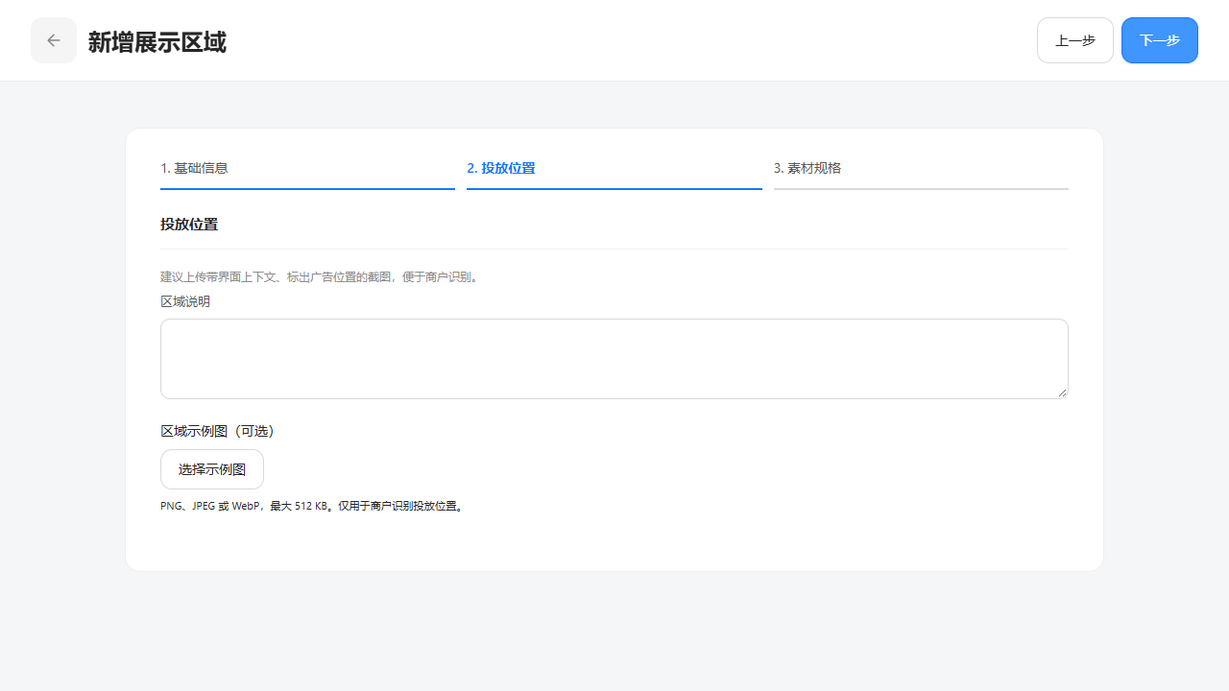
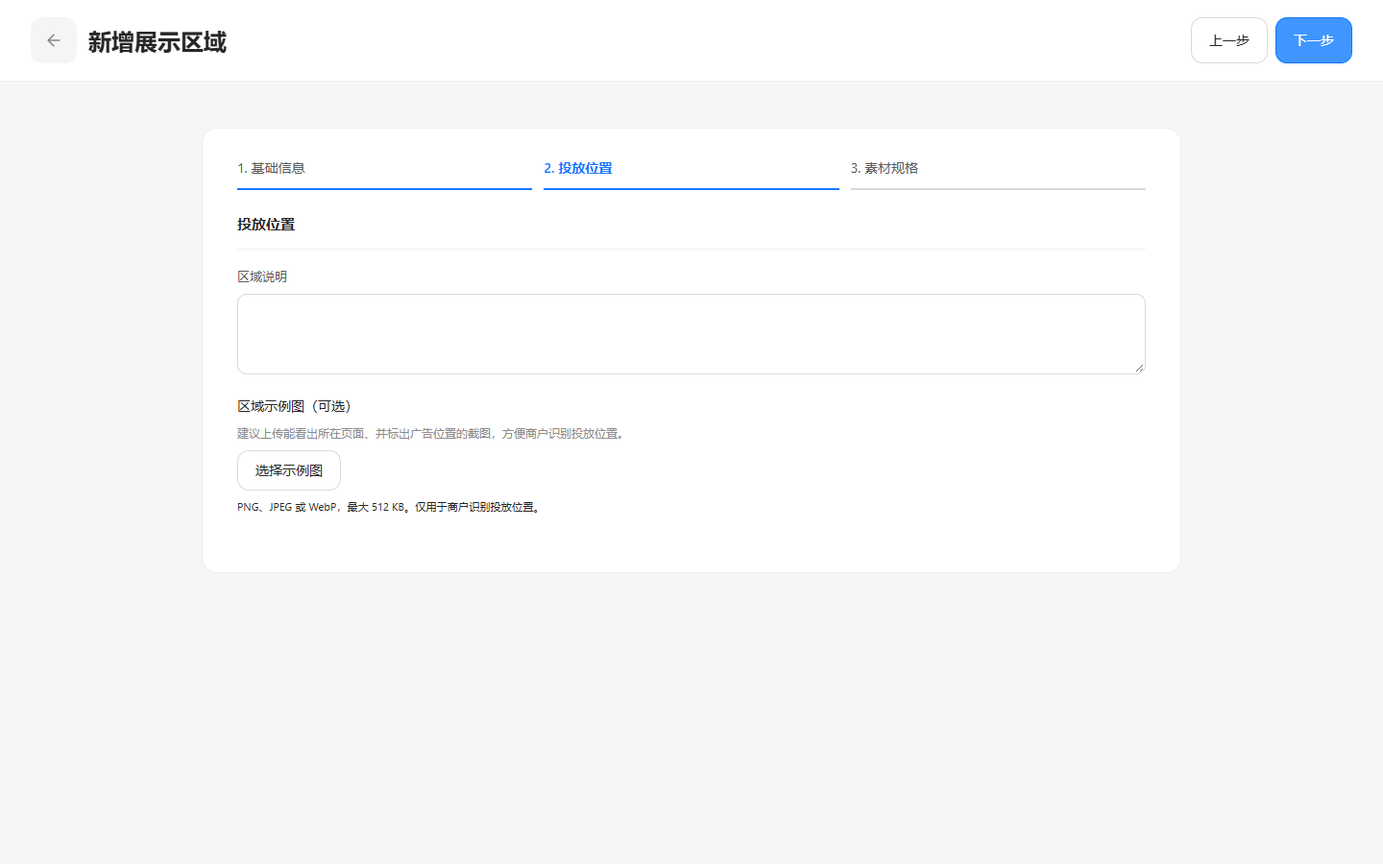
fix: streamline display region list and creation guidance

diff --git a/admin-web/src/marketing-display/ui.ts b/admin-web/src/marketing-display/ui.ts
@@ -49,18 +49,21 @@ class DisplayController {
   private contentStatus(id:string):string {const c=this.content(id),active=this.visiblePlacements().filter(p=>p.contentId===id&&this.status(p)==='已上架');return active.length?active.some(p=>p.snapshot?.version!==c?.version)?'有未发布修改':'已投放':'未投放'}
   private rows():Array<DisplayRegion|MerchantDisplayState['contents'][number]|DisplayPlacement> {const list=this.mode==='regions'?this.platform.regions:this.mode==='contents'?this.state.contents:this.visiblePlacements();return list.filter(item=>{const r='code' in item?item:this.region(item.regionId);const name='name' in item?item.name:this.content(item.contentId)?.name??item.snapshot?.name??'';const state='enabled' in item?item.enabled?'启用':'停用':'storeIds' in item?this.status(item):this.contentStatus(item.id);return (!this.query||(`${name} ${r?.productLine??''} ${r?.code??''}`).toLowerCase().includes(this.query.toLowerCase()))&&(!this.regionFilter||r?.id===this.regionFilter)&&(!this.statusFilter||state===this.statusFilter)})}
   private render():void {
-    if(!this.host.isConnected)return;const title=this.mode==='regions'?'展示区域管理':this.mode==='placements'?'投放管理':'内容方案',rows=this.rows(),pages=Math.max(1,Math.ceil(rows.length/this.pageSize));this.page=Math.min(this.page,pages);
+    if(!this.host.isConnected)return;const isRegions=this.mode==='regions',title=this.mode==='placements'?'投放管理':'内容方案',rows=this.rows(),pages=Math.max(1,Math.ceil(rows.length/this.pageSize));this.page=Math.min(this.page,pages);
     const selected=rows.slice((this.page-1)*this.pageSize,this.page*this.pageSize);
     const body=this.mode==='regions'?this.regionList(selected as DisplayRegion[]):this.mode==='contents'?this.contentList(selected as MerchantDisplayState['contents']):this.placementList(selected as DisplayPlacement[]);
     const noScope=this.mode!=='regions'&&!this.scope.scope;
-    this.hostMediaCleanup();this.host.innerHTML=`<div class="display-heading"><div><h2>${title}</h2><p>${this.mode==='regions'?'定义展示区域与素材规范，登记各终端支持能力':this.mode==='placements'?'按区域、终端、门店和生效时间管理投放':`为${e(this.scope.name)}配置屏保、首页、购物车与完成页展示内容`}</p></div>${!noScope?this.writeButton('＋ '+(this.mode==='regions'?'新增区域':this.mode==='placements'?'新建投放':'新建内容方案'),this.mode==='regions'?'new-region':this.mode==='placements'?'new-placement':'new-content',undefined,true):''}</div>${this.error?`<div class="display-alert error" role="alert">${e(this.error)}</div>`:''}${this.message?`<div class="display-alert success" role="status">${e(this.message)}</div>`:''}${noScope?'<div class="display-alert">请选择明确品牌后查看和配置展示内容，不在“全部品牌”中混合编辑。</div>':`<div class="display-panel"><div class="display-results-scroll"><div class="display-filters"><input class="display-search" id="display-search" aria-label="${this.mode==='regions'?'搜索产线、区域名称或编码':'搜索内容方案名称'}" placeholder="${this.mode==='regions'?'产线 / 区域名称 / 区域编码':'内容方案名称'}" value="${e(this.query)}">${this.mode!=='regions'?`<select id="display-region-filter" aria-label="按展示区域筛选"><option value="">全部展示区域</option>${this.platform.regions.map(r=>`<option value="${r.id}" ${this.regionFilter===r.id?'selected':''}>${e(r.name)}</option>`).join('')}</select>`:''}<select id="display-status-filter" aria-label="按状态筛选"><option value="">全部状态</option>${(this.mode==='regions'?['启用','停用']:this.mode==='contents'?['未投放','已投放','有未发布修改']:['待上架','已上架','已下架']).map(s=>`<option ${s===this.statusFilter?'selected':''}>${s}</option>`).join('')}</select>${btn('重置','reset',{link:true})}</div>${this.mode==='regions'?'<div class="display-alert">新增区域不自动代表终端已接入。终端完成开发后登记最低版本与素材能力，商家才可选择投放。</div>':''}${this.mode==='contents'&&this.hasLegacy()?`<div class="display-alert">检测到本浏览器的旧屏保数据。确认归属后可导入当前品牌为草稿，原数据保留。${this.writeButton('导入旧屏保','import',undefined,false,true)}</div>`:''}${this.mode==='placements'?'<div class="display-note">仅显示当前门店权限范围内可完整管理的投放。已发布与终端已展示分别记录。</div>':''}<div data-display-results>${body}</div></div><footer class="display-footer"><span>共 ${rows.length} 条</span><div>${btn('‹','previous',{disabled:this.page<=1,extra:'aria-label="上一页"'})}<span class="display-page-number">${this.page}</span>${btn('›','next',{disabled:this.page>=pages,extra:'aria-label="下一页"'})}<span>10 / 页</span></div></footer></div>`}`;this.hostMediaCleanup=hydrateDisplayMedia(this.host);
+    const filters=`<input class="display-search" id="display-search" aria-label="${this.mode==='regions'?'搜索产线、区域名称或编码':'搜索内容方案名称'}" placeholder="${this.mode==='regions'?'产线 / 区域名称 / 区域编码':'内容方案名称'}" value="${e(this.query)}">${this.mode!=='regions'?`<select id="display-region-filter" aria-label="按展示区域筛选"><option value="">全部展示区域</option>${this.platform.regions.map(r=>`<option value="${r.id}" ${this.regionFilter===r.id?'selected':''}>${e(r.name)}</option>`).join('')}</select>`:''}<select id="display-status-filter" aria-label="按状态筛选"><option value="">全部状态</option>${(this.mode==='regions'?['启用','停用']:this.mode==='contents'?['未投放','已投放','有未发布修改']:['待上架','已上架','已下架']).map(s=>`<option ${s===this.statusFilter?'selected':''}>${s}</option>`).join('')}</select>${btn('重置','reset',{link:true})}`;
+    const heading=isRegions?'':`<div class="display-heading"><div><h2>${title}</h2><p>${this.mode==='placements'?'按区域、终端、门店和生效时间管理投放':`为${e(this.scope.name)}配置屏保、首页、购物车与完成页展示内容`}</p></div>${!noScope?this.writeButton(this.mode==='placements'?'＋ 新建投放':'＋ 新建内容方案',this.mode==='placements'?'new-placement':'new-content',undefined,true):''}</div>`;
+    const regionToolbar=isRegions?`<div class="display-region-toolbar" role="group" aria-label="展示区域列表工具栏"><div class="display-filters">${filters}</div>${this.writeButton('＋ 新增区域','new-region',undefined,true)}</div>`:'';
+    this.hostMediaCleanup();this.host.innerHTML=`${heading}${this.error?`<div class="display-alert error" role="alert">${e(this.error)}</div>`:''}${this.message?`<div class="display-alert success" role="status">${e(this.message)}</div>`:''}${noScope?'<div class="display-alert">请选择明确品牌后查看和配置展示内容，不在“全部品牌”中混合编辑。</div>':`<div class="display-panel">${regionToolbar}<div class="display-results-scroll">${isRegions?'':`<div class="display-filters">${filters}</div>`}${this.mode==='contents'&&this.hasLegacy()?`<div class="display-alert">检测到本浏览器的旧屏保数据。确认归属后可导入当前品牌为草稿，原数据保留。${this.writeButton('导入旧屏保','import',undefined,false,true)}</div>`:''}${this.mode==='placements'?'<div class="display-note">仅显示当前门店权限范围内可完整管理的投放。已发布与终端已展示分别记录。</div>':''}<div data-display-results>${body}</div></div><footer class="display-footer"><span>共 ${rows.length} 条</span><div>${btn('‹','previous',{disabled:this.page<=1,extra:'aria-label="上一页"'})}<span class="display-page-number">${this.page}</span>${btn('›','next',{disabled:this.page>=pages,extra:'aria-label="下一页"'})}<span>10 / 页</span></div></footer></div>`}`;this.hostMediaCleanup=hydrateDisplayMedia(this.host);
   }
   private hasLegacy():boolean {try{return Array.isArray(readLegacyScreensavers())&&(readLegacyScreensavers() as {id?:string}[]).some(t=>t?.id&&!this.state.legacyIds.includes(String(t.id)))}catch{return false}}
   private empty(noun:string):string{return `<div class="display-empty"><div aria-hidden="true">▧</div><h3>${this.query||this.regionFilter||this.statusFilter?'没有符合条件的记录':'暂无'+noun}</h3><p>${this.query||this.regionFilter||this.statusFilter?'调整搜索或筛选条件后重试':'点击右上角新建，配置区域与内容'}</p>${this.query||this.regionFilter||this.statusFilter?btn('重置筛选','reset'):''}</div>`}
   private contentList(list:MerchantDisplayState['contents']):string {return list.length?`<div class="display-cards">${list.map(c=>{const r=this.region(c.regionId),p=this.visiblePlacements().filter(p=>p.contentId===c.id&&this.status(p)==='已上架'),status=this.contentStatus(c.id);return `<article class="display-content-card"><div class="display-thumb">${media(c.assets[0])}<span>${c.assets.length} 个素材</span></div><div class="display-card-body"><h3>${e(c.name)} ${tag(status,status==='已投放'?'green':'orange')}</h3><div class="display-meta"><span>展示区域 <b>${e(r?.name??'区域不可用')}</b></span><span>内容版本 <b>V${c.version}</b></span><span>已发布投放 <b>${p.length} 条</b></span></div><div class="display-meta"><span>已接入终端 <b>${e(Object.keys(r?.bindings??{}).join(' / ')||'暂无终端接入')}</b></span></div><p class="display-muted">最近更新 ${time(c.updatedAt)}</p></div><div class="display-card-actions">${this.writeButton('选择门店','distribute',c.id,false,true)}<div>${btn('预览','preview',{id:c.id,link:true})}<details class="display-more"><summary aria-label="更多内容操作">⋯</summary><div>${this.writeButton('编辑','edit-content',c.id,false,true)+this.writeButton('复制','duplicate-content',c.id,false,true)+this.writeButton('删除','delete-content',c.id,false,true)}</div></details></div></div></article>`}).join('')}</div>`:this.empty('内容方案')}
   private regionList(list:DisplayRegion[]):string {return list.length?`<div class="display-table-wrap"><table><thead><tr><th>区域名称 / 编码</th><th>所属场景</th><th>素材规范</th><th>已接入终端</th><th>状态</th><th>操作</th></tr></thead><tbody>${list.map(r=>`<tr><td><strong>${e(r.name)}</strong><p class="display-muted">${e(r.productLine??'待分配产线')} · ${r.specs?.length??0}套规格 · V${r.specVersion??1}</p> ${r.builtin?tag('内置'):''}<p class="display-code">${e(r.code)}</p></td><td>${e(r.scene)}</td><td>${r.mediaKinds.map(k=>k==='image'?'图片':'视频').join(' / ')}${r.specs?' · 按规格配置':' · 最多 '+r.maxItems+' 个'}<p class="display-muted">${r.specs?r.specs.map(s=>e(s.name)+' '+s.width+'×'+s.height).join(' / '):e(r.ratio)}</p></td><td><div class="display-tags">${Object.keys(r.bindings).map(t=>tag(t)).join('')||tag('待终端接入','orange')}</div></td><td>${tag(r.enabled?'启用':'停用',r.enabled?'green':'')}</td><td><div class="display-inline-actions">${this.writeButton('编辑','edit-region',r.id,false,true)}${btn('终端接入','bindings',{id:r.id,link:true})}${this.writeButton(r.enabled?'停用':'启用','toggle-region',r.id,false,true)}</div></td></tr>`).join('')}</tbody></table></div>`:this.empty('区域')}
   private placementList(list:DisplayPlacement[]):string {return list.length?`<div class="display-table-wrap"><table><thead><tr><th>内容方案 / 区域</th><th>投放范围</th><th>生效时间</th><th>发布状态</th><th>操作</th></tr></thead><tbody>${list.map(p=>{const status=this.status(p);return `<tr><td><strong>${e(p.snapshot?.name??this.content(p.contentId)?.name)}</strong><p class="display-muted">${e(this.region(p.regionId)?.name)}${p.snapshot?' · V'+p.snapshot.version:''}</p></td><td>${btn(p.storeIds.length+' 家门店','associated-stores',{id:p.id,link:true})}<p class="display-muted">${e(p.terminals.join(' / '))}</p></td><td class="display-time">${time(p.startAt,p.timeZone)}<br>至 ${time(p.endAt,p.timeZone)}<p class="display-muted">${e(p.timeZone)}</p></td><td>${tag(status,status==='已上架'?'green':status==='待上架'?'orange':'')}<p class="display-muted">${status==='已上架'?(Date.now()<p.startAt?'待生效':Date.now()>=p.endAt?'已结束':'生效中')+' · 待终端回执':status==='待上架'?'尚未发布':'终端更新后停止使用'}</p></td><td><div class="display-inline-actions">${btn('详情','detail',{id:p.id,link:true})}${status==='待上架'?this.writeButton('编辑','edit-placement',p.id,false,true)+this.writeButton('上架','publish',p.id,false,true):status==='已上架'?this.writeButton('下架','revoke',p.id,false,true):this.writeButton('再次投放','edit-placement',p.id,false,true)}</div></td></tr>`}).join('')}</tbody></table></div>`:this.empty('投放记录')}
-  private filter(event:Event):void {const target=event.target as HTMLInputElement;const start=target.selectionStart,end=target.selectionEnd;if(target.id==='display-search')this.query=target.value;else if(target.id==='display-region-filter')this.regionFilter=target.value;else if(target.id==='display-status-filter')this.statusFilter=target.value;else return;this.page=1;this.render();const focus=this.host.querySelector<HTMLInputElement>('#'+target.id);focus?.focus();if(target.id==='display-search'&&start!==null)focus?.setSelectionRange(start,end)}
+  private filter(event:Event):void {const target=event.target as HTMLInputElement;if(event.type!==(target.id==='display-search'?'input':'change'))return;const start=target.selectionStart,end=target.selectionEnd;if(target.id==='display-search')this.query=target.value;else if(target.id==='display-region-filter')this.regionFilter=target.value;else if(target.id==='display-status-filter')this.statusFilter=target.value;else return;this.page=1;this.render();const focus=this.host.querySelector<HTMLInputElement>('#'+target.id);focus?.focus();if(target.id==='display-search'&&start!==null)focus?.setSelectionRange(start,end)}
   private openDialog(title:string,body:string,actions:string,kind='drawer'):void {
     this.closeDialog();this.returnFocus=document.activeElement as HTMLElement|null;const dialog=document.createElement('dialog');dialog.className=`display-dialog display-${kind}`;dialog.setAttribute('aria-label',title);dialog.innerHTML=kind==='full'?`${renderStandalonePageHeader({titleHtml:e(title),backHtml:btn('返回','close',{extra:'aria-label="返回列表"'}),actionsHtml:actions})}<div class="display-dialog-scroll"><div class="display-full-body"><div data-display-error class="display-inline-error" role="alert"></div>${body}</div></div>`:`<header><h2>${e(title)}</h2>${btn('×','close',{link:true,extra:'aria-label="关闭抽屉"'})}</header><div class="display-dialog-scroll"><div data-display-error class="display-inline-error" role="alert"></div>${body}</div><footer>${actions}</footer>`;
     dialog.addEventListener('click',event=>{void this.action(event)});dialog.addEventListener('submit',event=>{event.preventDefault();void this.submit(event).catch(error=>this.showError(error))});dialog.addEventListener('input',event=>{if((event.target as Element).closest('form'))this.dirty=true});dialog.addEventListener('change',event=>{if((event.target as Element).closest('form'))this.dirty=true;void this.changed(event)});dialog.addEventListener('cancel',event=>{event.preventDefault();void this.tryClose()});
@@ -148,7 +151,7 @@ class DisplayController {
     const heading=form.querySelector<HTMLElement>(`[data-region-step="${step}"] h3`);if(heading){heading.tabIndex=-1;heading.focus()}
   }
   private editRegion(id:string):void {if(!canManageDisplayRegions())throw Error('暂无区域管理权限');const r=this.region(id);this.regionDraft=r?structuredClone(r):{name:'',code:'',scene:'',description:'',ratio:'16:9',mediaKinds:['image'],maxItems:5,parameters:[],bindings:{},specs:[newSpec()],specVersion:1,specHistory:[]};this.dirty=false;
-    const f=this.regionDraft;this.openDialog(r?'编辑展示区域':'新增展示区域',`<form id="display-region-form" ${r?'':'novalidate data-step="0"'}>${r?'':'<ol class="display-region-progress" aria-label="创建步骤"><li data-region-progress>1. 基础信息</li><li data-region-progress>2. 投放位置</li><li data-region-progress>3. 素材规格</li></ol><section data-region-step="0"><h3 tabindex="-1" class="display-section-title">基础信息</h3>'}${slotProductLineField(f)}${r?'':'<div class="display-field-grid">'}${field('区域名称',input('name','区域名称',f.name,'maxlength="30" required'),'',true)}${field('区域编码',input('code','区域编码',f.code,r?'disabled':'maxlength="64" placeholder="例如 home.banner" pattern="[a-z][a-z0-9._\\-]{0,63}" required'),'终端按编码获取内容，创建后不可修改。',true)}${r?'':'</div>'}${field('所属场景',input('scene','所属场景',f.scene,'list="display-scenes" maxlength="20" required')+'<datalist id="display-scenes"><option value="首页"><option value="购物车"><option value="完成页"><option value="待机"></datalist>','可以输入新场景。',true)}${r?'':'</section><section data-region-step="1" hidden><h3 tabindex="-1" class="display-section-title">投放位置</h3><p class="display-muted">建议上传带界面上下文、标出广告位置的截图，便于商户识别。</p>'}${field('区域说明',`<textarea class="display-input" name="description" aria-label="区域说明" maxlength="200">${e(f.description)}</textarea>`)}${this.regionExampleField(f)}${r?'':'</section><section data-region-step="2" aria-label="素材规格" hidden>'}${slotFields(f)}${r?field('可配置参数',`<div class="display-checks">${[['interval','轮播间隔'],['idle','无操作进入时间'],['transition','切换效果']].map(([key,label])=>`<label><input type="checkbox" name="parameter" value="${key}" ${f.parameters.includes(key as 'interval'|'idle'|'transition')?'checked':''}>${label}</label>`).join('')}</div>`):''}<div class="display-alert">${r?'保存规格变更将生成新版本；旧广告保留原版本。':'新区域默认未接入终端，登记核验后的接入信息才对商家开放。'}</div>${r?'':'</section>'}</form>`,(r?btn('取消','close'):btn('上一步','region-previous')+btn('下一步','region-next',{primary:true}))+this.writeButton(r?'保存区域':'创建区域','save-region',undefined,true),r?'drawer':'full');if(!r){this.dialog?.classList.add('display-region-create');this.showRegionStep(0)}bindSlotFields(this.form(),f);
+    const f=this.regionDraft;this.openDialog(r?'编辑展示区域':'新增展示区域',`<form id="display-region-form" ${r?'':'novalidate data-step="0"'}>${r?'':'<ol class="display-region-progress" aria-label="创建步骤"><li data-region-progress>1. 基础信息</li><li data-region-progress>2. 投放位置</li><li data-region-progress>3. 素材规格</li></ol><section data-region-step="0"><h3 tabindex="-1" class="display-section-title">基础信息</h3>'}${slotProductLineField(f)}${r?'':'<div class="display-field-grid">'}${field('区域名称',input('name','区域名称',f.name,'maxlength="30" required'),'',true)}${field('区域编码',input('code','区域编码',f.code,r?'disabled':'maxlength="64" placeholder="例如 home.banner" aria-describedby="display-region-code-help" pattern="[a-z][a-z0-9._\\-]{0,63}" required'),r?'终端按编码获取内容，创建后不可修改。':'<span id="display-region-code-help">1–64 个字符，以小写英文字母开头；其余可用小写英文字母、数字、点（.）、下划线（_）或短横线（-）。例如 home.banner。创建后不可修改。</span>',true)}${r?'':'</div>'}${field('所属场景',input('scene','所属场景',f.scene,'list="display-scenes" maxlength="20" required')+'<datalist id="display-scenes"><option value="首页"><option value="购物车"><option value="完成页"><option value="待机"></datalist>','可以输入新场景。',true)}${r?'':'</section><section data-region-step="1" hidden><h3 tabindex="-1" class="display-section-title">投放位置</h3>'}${field('区域说明',`<textarea class="display-input" name="description" aria-label="区域说明" maxlength="200">${e(f.description)}</textarea>`)}${this.regionExampleField(f)}${r?'':'</section><section data-region-step="2" aria-label="素材规格" hidden>'}${slotFields(f)}${r?field('可配置参数',`<div class="display-checks">${[['interval','轮播间隔'],['idle','无操作进入时间'],['transition','切换效果']].map(([key,label])=>`<label><input type="checkbox" name="parameter" value="${key}" ${f.parameters.includes(key as 'interval'|'idle'|'transition')?'checked':''}>${label}</label>`).join('')}</div>`):''}<div class="display-alert">${r?'保存规格变更将生成新版本；旧广告保留原版本。':'新区域默认未接入终端，登记核验后的接入信息才对商家开放。'}</div>${r?'':'</section>'}</form>`,(r?btn('取消','close'):btn('上一步','region-previous')+btn('下一步','region-next',{primary:true}))+this.writeButton(r?'保存区域':'创建区域','save-region',undefined,true),r?'drawer':'full');if(!r){this.dialog?.classList.add('display-region-create');this.showRegionStep(0)}bindSlotFields(this.form(),f);
   }
   private persistRegion():void {if(this.form().querySelector<HTMLInputElement>("#display-region-example")?.files?.length)throw Error("示例图正在读取，请稍后保存");const form=this.form(),draft=this.regionDraft!;if(!draft.id&&(form.dataset.step!=='2'||!this.validateRegionStep(2)))return;const fd=new FormData(form);const value:RegionInput={...draft,...readSlotFields(this.form(),draft),name:String(fd.get('name')??''),code:draft.id?draft.code:String(fd.get('code')??''),scene:String(fd.get('scene')??''),description:String(fd.get('description')??''),parameters:draft.id?fd.getAll('parameter') as DisplayRegion['parameters']:draft.parameters};const next=saveRegion(this.platform,value,canManageDisplayRegions());this.platform=saveDisplayPlatform(next,this.platform.revision);this.saved(draft.id?'区域已保存':'区域已创建，待终端接入');if(!draft.id)this.host.querySelector<HTMLElement>('[data-display-action=new-region]')?.focus()}
   private bindings(id:string):void {const r=this.region(id);if(!r)throw Error('区域不存在');this.regionDraft=structuredClone(r);this.dirty=false;this.openDialog('终端接入 · '+r.name,`<div class="display-alert">登记接入能力不代表自动完成终端开发。核验终端版本后再开放商家投放。</div><div class="display-code-box"><code>${e(r.code)}</code>${btn('复制编码','copy-code',{id,link:true})}</div><form id="display-bindings-form">${DISPLAY_TERMINALS.filter(t=>!r.productLine||r.productLine===t).map(t=>`<div class="display-binding-row"><div><strong>${t}</strong><p class="display-muted">${r.bindings[t]?'已登记支持':'未接入'}</p></div><div><label class="display-check"><input type="checkbox" name="terminal" value="${t}" ${r.bindings[t]?'checked':''} ${!canManageDisplayRegions()?'disabled':''}>登记支持</label>${input('version-'+t,t+'最低支持版本',r.bindings[t]?.minimumVersion??'','placeholder="最低版本，如 5.0.1" '+(!canManageDisplayRegions()?'disabled':''))}<div class="display-checks small">${r.mediaKinds.map(k=>`<label><input type="checkbox" name="kind-${t}" value="${k}" ${r.bindings[t]?.mediaKinds.includes(k)?'checked':''} ${!canManageDisplayRegions()?'disabled':''}>${k==='image'?'图片':'视频'}</label>`).join('')}</div></div></div>`).join('')}</form>`,btn('关闭','close')+this.writeButton('保存接入信息','save-bindings',id,true))}
@@ -196,7 +199,7 @@ class DisplayController {
     d.assets.push(...additions);this.dirty=true;this.contentEditor();
   }
   private regionExampleField(draft:RegionInput):string {
-    return `<div class="display-field"><span>区域示例图（可选）</span><input hidden id="display-region-example" type="file" accept="${REGION_EXAMPLE_TYPES.join(',')}"><div>${btn(draft.exampleImage?'更换示例图':'选择示例图','choose-region-example',{extra:'aria-describedby="display-region-example-help"'})}</div><small id="display-region-example-help">PNG、JPEG 或 WebP，最大 512 KB。仅用于商户识别投放位置。</small><div data-region-example-preview>${this.regionExamplePreview(draft)}</div></div>`
+    return `<div class="display-field"><span>区域示例图（可选）</span><p id="display-region-example-guide">建议上传能看出所在页面、并标出广告位置的截图，方便商户识别投放位置。</p><input hidden id="display-region-example" type="file" accept="${REGION_EXAMPLE_TYPES.join(',')}"><div>${btn(draft.exampleImage?'更换示例图':'选择示例图','choose-region-example',{extra:'aria-describedby="display-region-example-guide display-region-example-help"'})}</div><small id="display-region-example-help">PNG、JPEG 或 WebP，最大 512 KB。仅用于商户识别投放位置。</small><div data-region-example-preview>${this.regionExamplePreview(draft)}</div></div>`
   }
   private regionExamplePreview(draft:RegionInput):string {
     return draft.exampleImage?`<img src="${e(draft.exampleImage)}" alt="区域示例图预览" style="display:block;max-width:100%;max-height:180px;object-fit:contain">${btn('移除示例图','remove-region-example',{link:true})}`:''

diff --git a/admin-web/src/shell/m-platform-shell.ts b/admin-web/src/shell/m-platform-shell.ts
@@ -143,12 +143,13 @@ function renderMPlatformMain(path: string): string {
   if(path.split("?")[0].replace(/\/$/,"")===ENTERPRISE_MERCHANT_ROUTE_PREFIX)return `<main class="brand-list-main"><div data-m-platform-content class="flex min-h-0 flex-1 flex-col">${renderMPlatformContent(path)}</div></main>`;
   const routePath = path.split("?")[0].replace(/\/+$/, "");
   const isFullWidthList = MENU_ROUTING_PAGES.some(page => page.path === routePath && (page.view === "projects" || page.view === "registry-log" || page.view === "menu-log"));
+  const scrollPage = isFullWidthList || isDisplayRegionPath(routePath);
   return `
     <div class="flex min-h-0 min-w-0 flex-1 flex-col overflow-hidden">
       ${renderMPlatformHeader(path)}
-      <main class="min-h-0 flex-1 flex flex-col animate-fade-in ${isFullWidthList ? "overflow-x-hidden overflow-y-auto p-2 md:p-3" : "overflow-hidden p-4 md:p-6"}">
-        <div class="mx-auto flex w-full flex-col ${isFullWidthList ? "min-w-0 grow shrink-0" : "min-h-0 flex-1 max-w-[90rem]"}">
-          <div data-m-platform-content role="tabpanel" class="flex flex-col ${isFullWidthList ? "min-w-0 grow shrink-0" : "min-h-0 flex-1 overflow-hidden"}">
+      <main class="min-h-0 flex-1 flex flex-col animate-fade-in ${scrollPage ? "overflow-x-hidden overflow-y-auto" : "overflow-hidden"} ${isFullWidthList ? "p-2 md:p-3" : "p-4 md:p-6"}">
+        <div class="mx-auto flex w-full flex-col ${scrollPage ? "min-w-0 grow shrink-0" : "min-h-0 flex-1"} ${isFullWidthList ? "" : "max-w-[90rem]"}">
+          <div data-m-platform-content role="tabpanel" class="flex flex-col ${scrollPage ? "min-w-0 grow shrink-0" : "min-h-0 flex-1 overflow-hidden"}">
             ${renderMPlatformContent(path)}
           </div>
         </div>

diff --git a/admin-web/src/marketing-display/display.css b/admin-web/src/marketing-display/display.css
@@ -32,3 +32,8 @@
 .display-region-progress li[aria-current=step]{color:#1677ff;font-weight:600}
 .dark .display-region-progress li:not([aria-current]){color:#cbd5e1}
 .display-region-create .display-alert{margin:24px 0 0}
+.display-region-toolbar{display:flex;flex-wrap:wrap;align-items:center;gap:12px;flex-shrink:0;padding:16px 24px;border-bottom:1px solid var(--display-border)}
+.display-region-toolbar .display-filters{flex:1 1 430px;min-width:0;margin:0}
+.display-region-toolbar .display-search{max-width:100%}
+.display-region-toolbar>.display-btn{min-height:48px;margin-left:auto}
+.display-page[data-mode=regions] .display-panel,.display-page[data-mode=regions] .display-results-scroll{overflow:visible}
